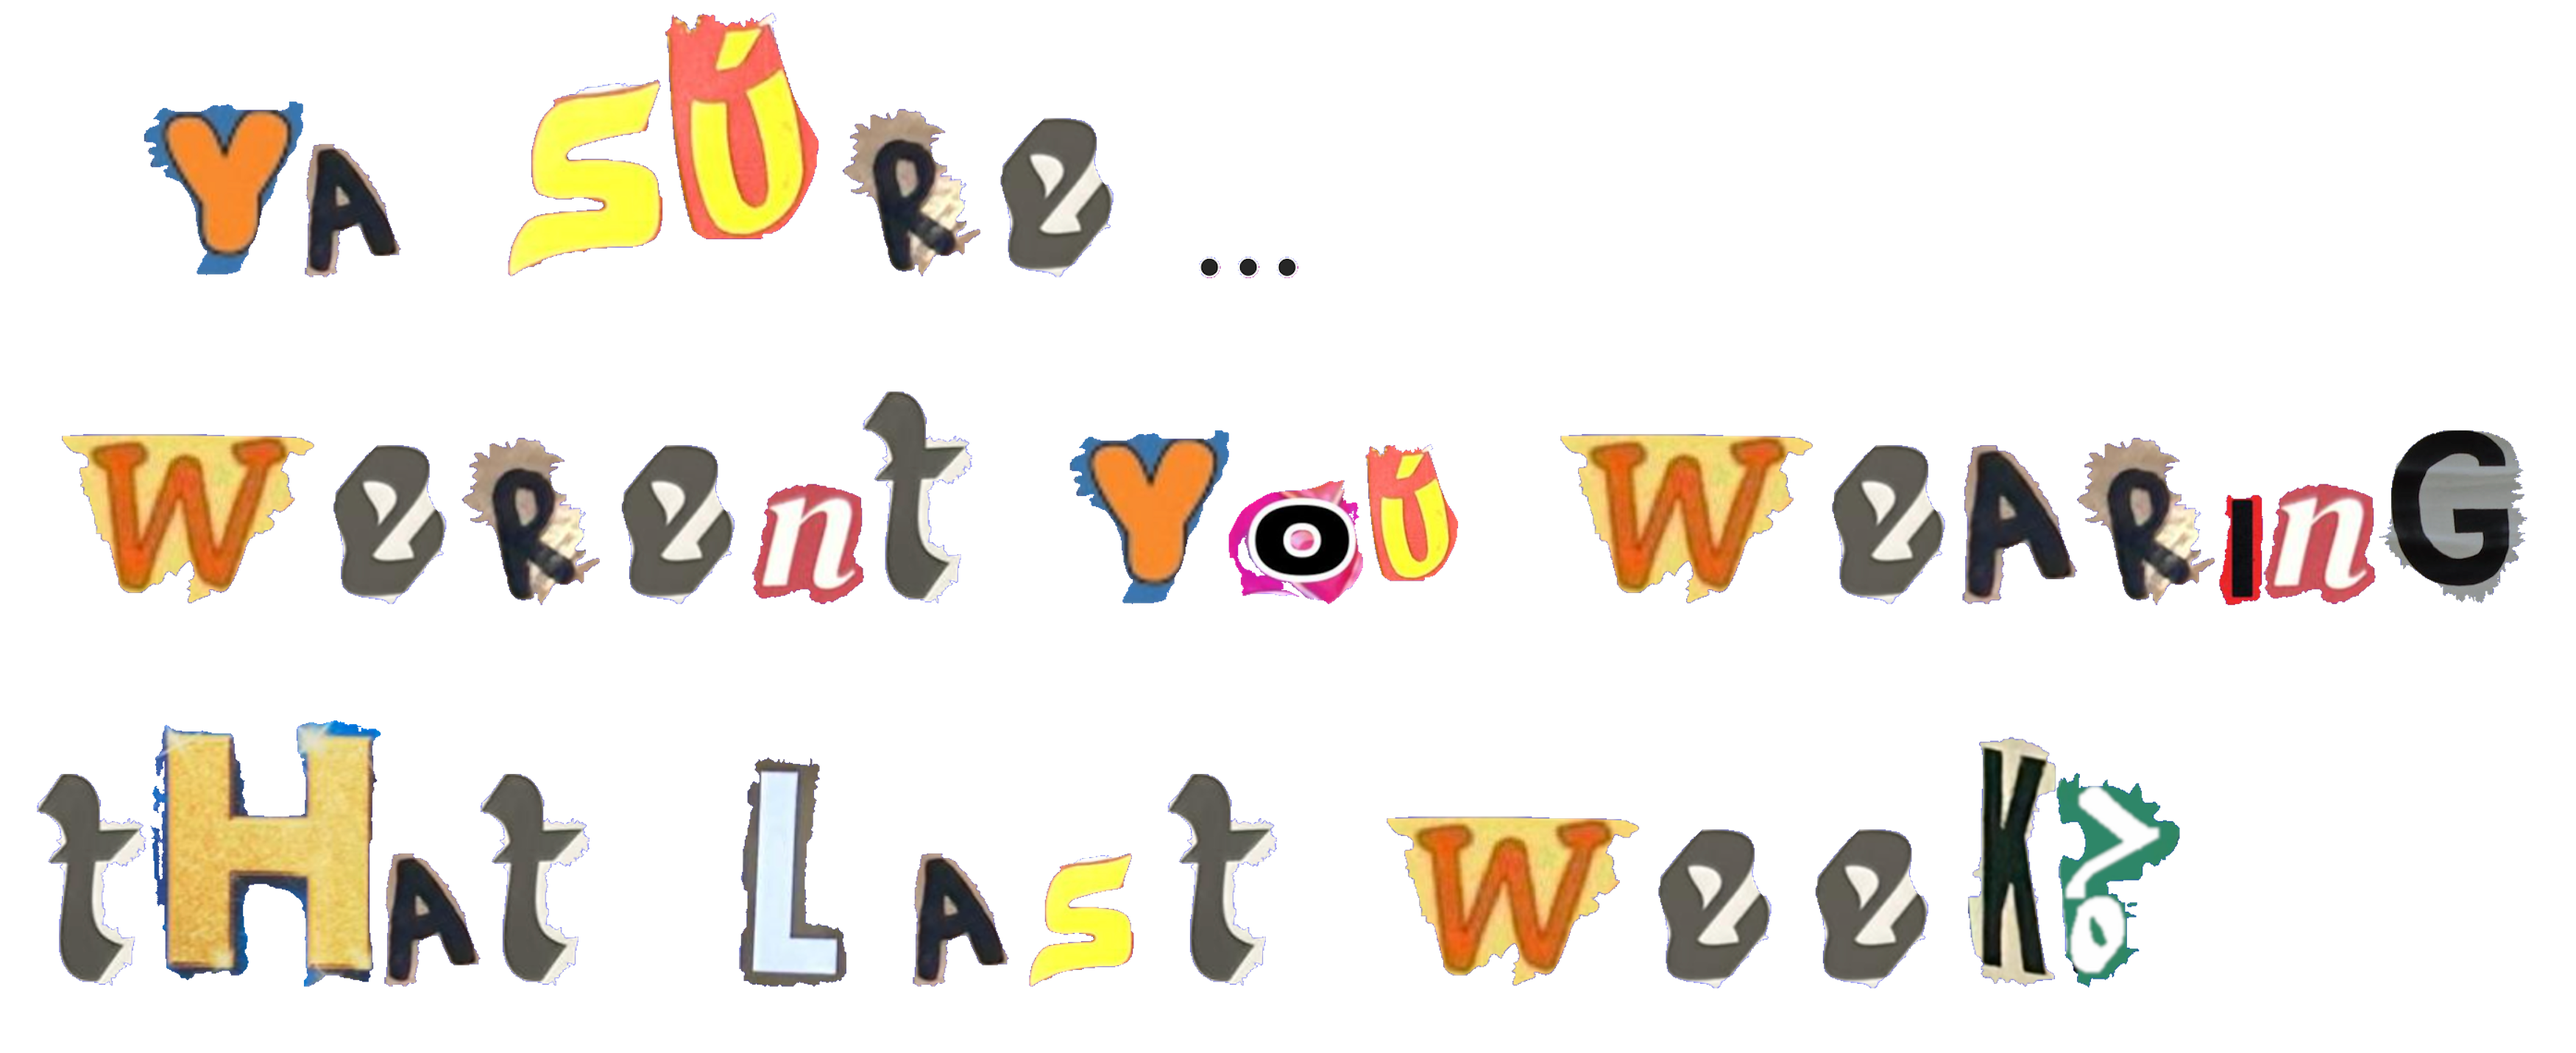
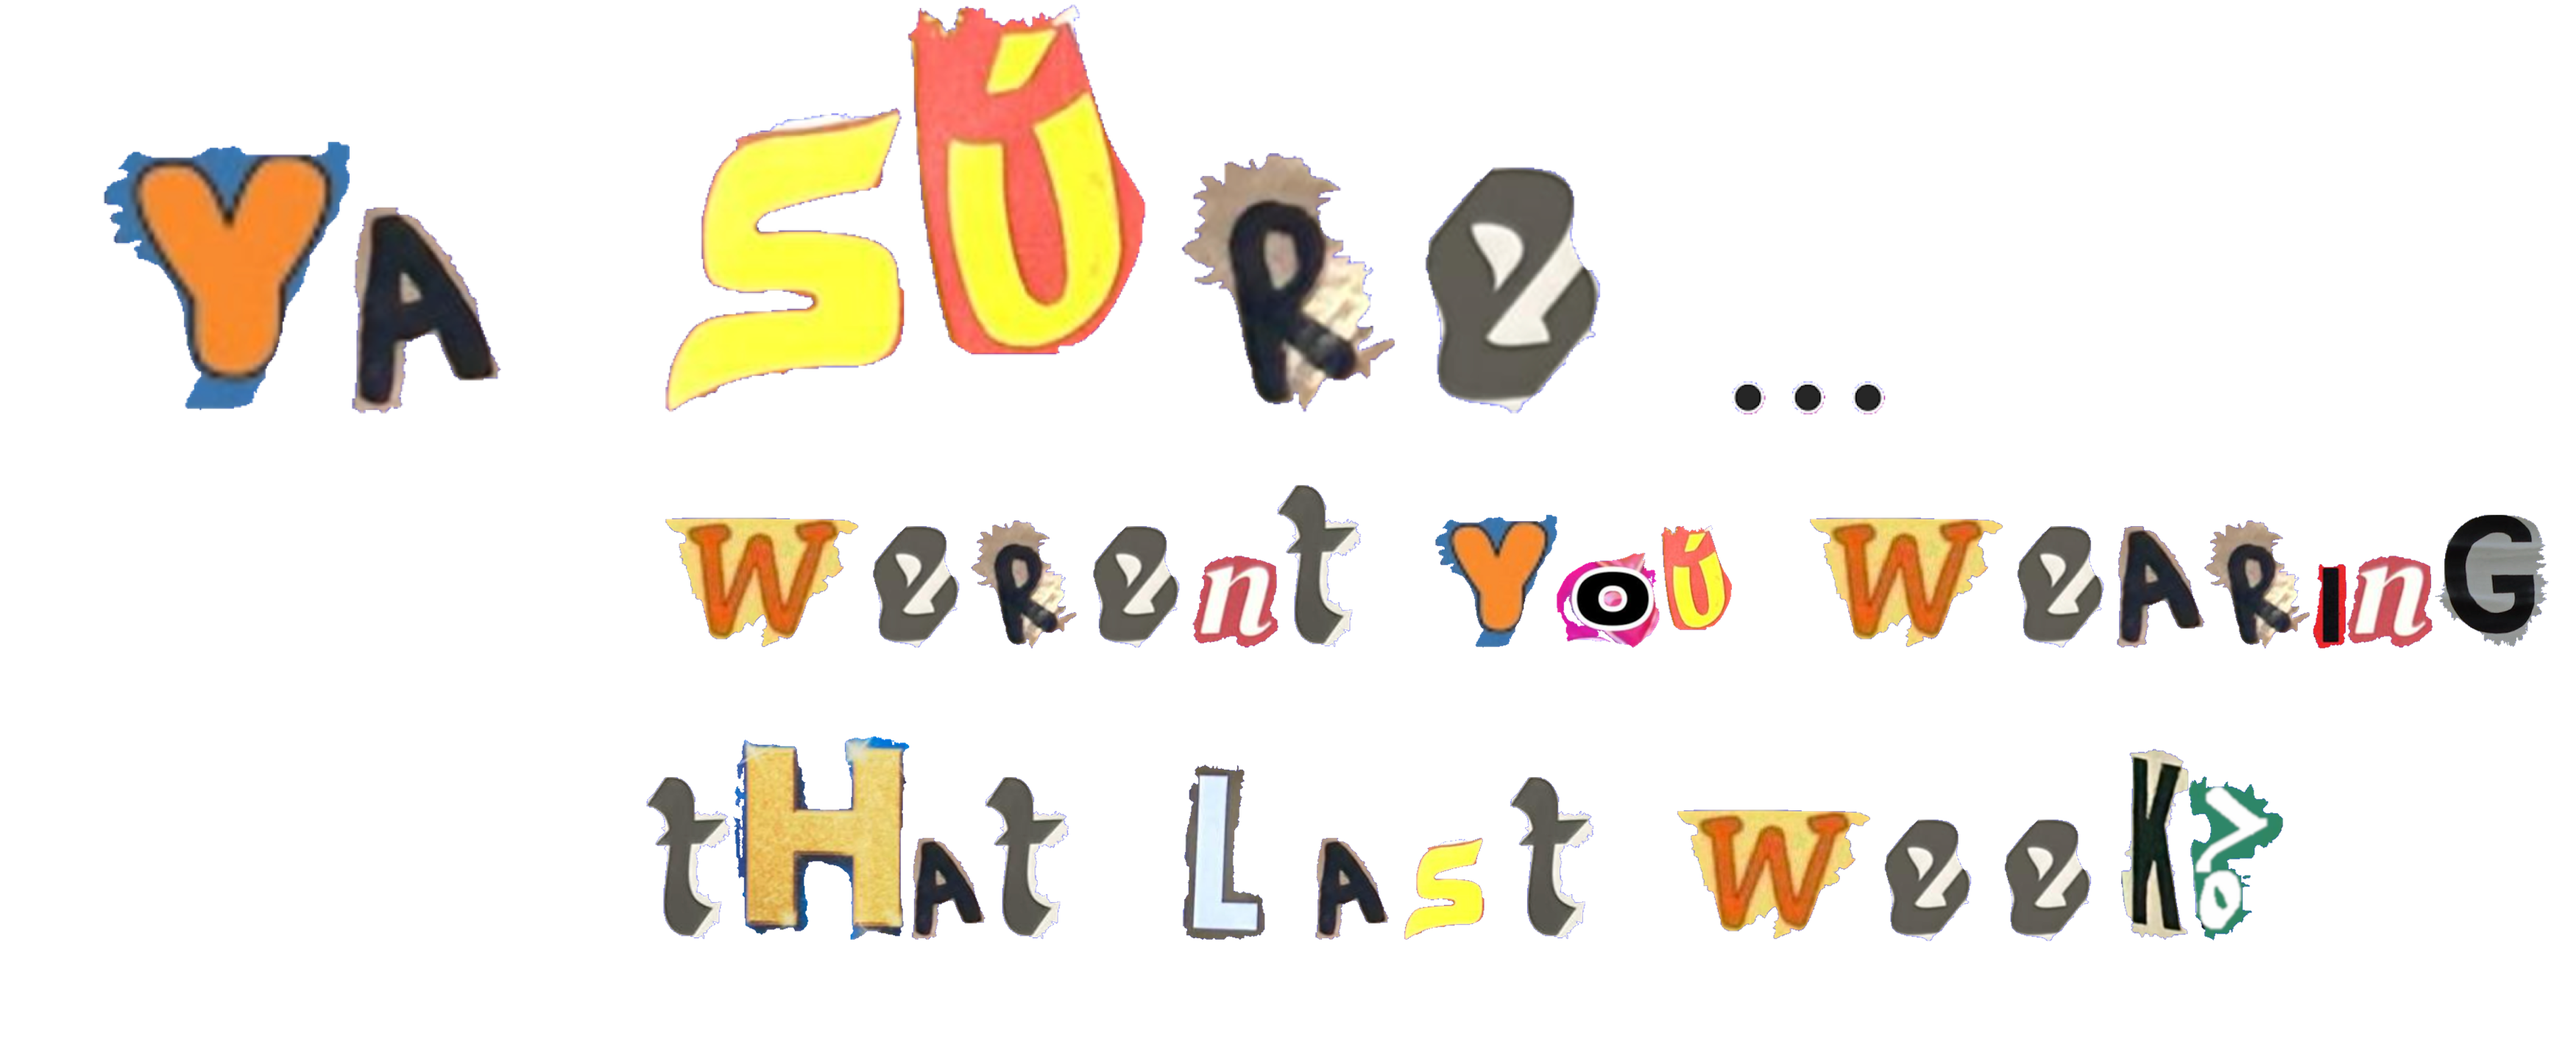
cleaned up

Changed region(s): [[0.0, 0.0, 0.9966, 0.615], [0.0, 0.6765, 0.9031, 0.9532]]

diff --git a/HOME.html b/HOME.html
@@ -212,6 +212,7 @@
       <img src="pics/kite.png" class="kite">
       <img src="pics/sky-emarld.png" class="pinjra">
       <img src="pics/emarld.png" class="emerald">
+      <img src="pics/rishi.gif" class="wtfrishi">
       <a href="blownup.html"><img src="pics/temple.png" class="temple"></a>
 
       
@@ -360,12 +361,12 @@ if you need a chat bot to teach you something, your education system has failed 
 
 <!-- FREDA THE FORTUNE TELLER -->
 <script>
-  var images = ["freda/throwmoney_nobg.png", "freda/outfitrepeater_nobg.png", "freda/mama_nobg.png", "freda/uproblem_nobg.png", "freda/namaz_nobg.png", "freda/no_nobg.png"];
+  var images = ["freda/throwmoney_nobg.png", "freda/outfitrepeater_nobg.png", "freda/mama_nobg.png", "freda/uproblem_nobg.png", "freda/namaz_nobg.png", "freda/no_nobg.png","freda/tmi.png"];
   var currentImage = 1; //defaults to image1.jpg
   function goNext() {
-    if (document.getElementById('typespace').value !== '' && document.getElementById('typespace').value !== "Ask Freda for some advice...." && document.getElementById('typespace').value !== "ask Freda something else" ){
+    if (document.getElementById('typespace').value !== '' && document.getElementById('typespace').value !== "Ask Freda for some advice.... (y/n question)" && document.getElementById('typespace').value !== "ask Freda something else" ){
         document.getElementById("reply").src = images[currentImage];
-        currentImage = Math.floor(Math.random() * images.length);;
+        currentImage = Math.floor(Math.random() * images.length);
         document.getElementById('typespace').value = 'ask Freda something else'
     }
    }
@@ -381,9 +382,10 @@ if you need a chat bot to teach you something, your education system has failed 
   <p id='title'>FREDA THE FORTUNE TELLER </p>
 
   <div class='responsebar'>
-    <input id="typespace" type="text" value="Ask Freda for some advice...">
+    <input id="typespace" type="text" value="Ask Freda for some advice.... (y/n question)">
     <button type="button" onclick=goNext() id="fredabutton"> </button>
-    </div>
+  </div>
+
   </div>
 
   </body>

diff --git a/style.css b/style.css
@@ -57,20 +57,9 @@ body {
   left: 0vw;
   display: flex;
 }
-.bachat{
-  position:absolute;
-  top: 75vh;
-  left: 58.5vw;
-  width:40vw;
-  z-index: 2;
-}
-.craft{
-  position:absolute;
-  top: 60vh;
-  left: 28vw;
-  width:45vw;
-  z-index: 2;
-}
+.bachat{position:absolute;top: 75vh;left: 58.5vw;width:40vw;z-index: 2;}
+.craft{position:absolute;top: 60vh;left: 28vw;width:45vw;z-index: 2;}
+.wtfrishi{position: relative;top: 171vh;left: 52vw;width: auto;height: 37vh;transform;z-index: 1;}
 .faiwy{
   position:relative;
   top: 80vh;
@@ -635,7 +624,7 @@ position: relative;
 
 .FREDA_plot{position:relative;top:400vh;left:0vw;}
 .freda{position:absolute; top: 60vh;left:7vw;width:50vw;z-index: 2}
-#reply{position:absolute; top: 64vh;left:55vw;width:40vw;z-index:3}
+#reply{position:absolute; top: 64vh;left:55vw;width:40vw;z-index:3;max-width: 100% !important;}
 
 .responsebar{position:absolute;top:0vw;left:0vw;display:flex;z-index: 4;}
 #fredabutton{position:absolute; top: 116vh;left:61vw;width:450px;height:60px;z-index:4;background-image: url("freda/fredabuttonmid.gif")}
